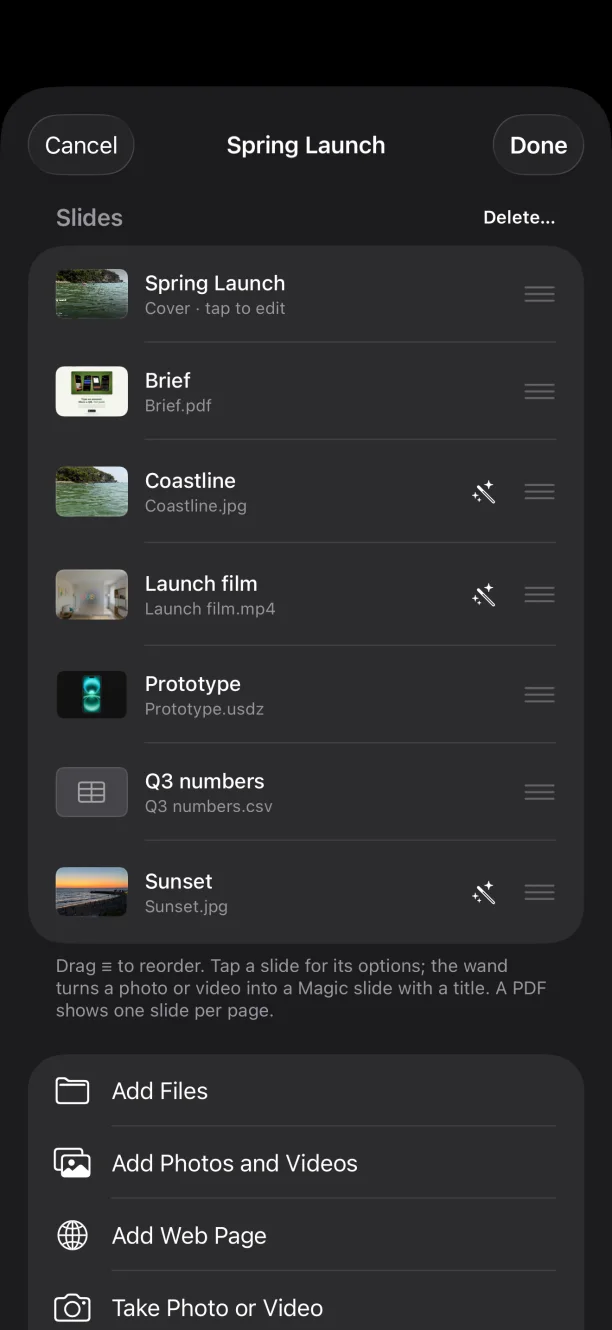
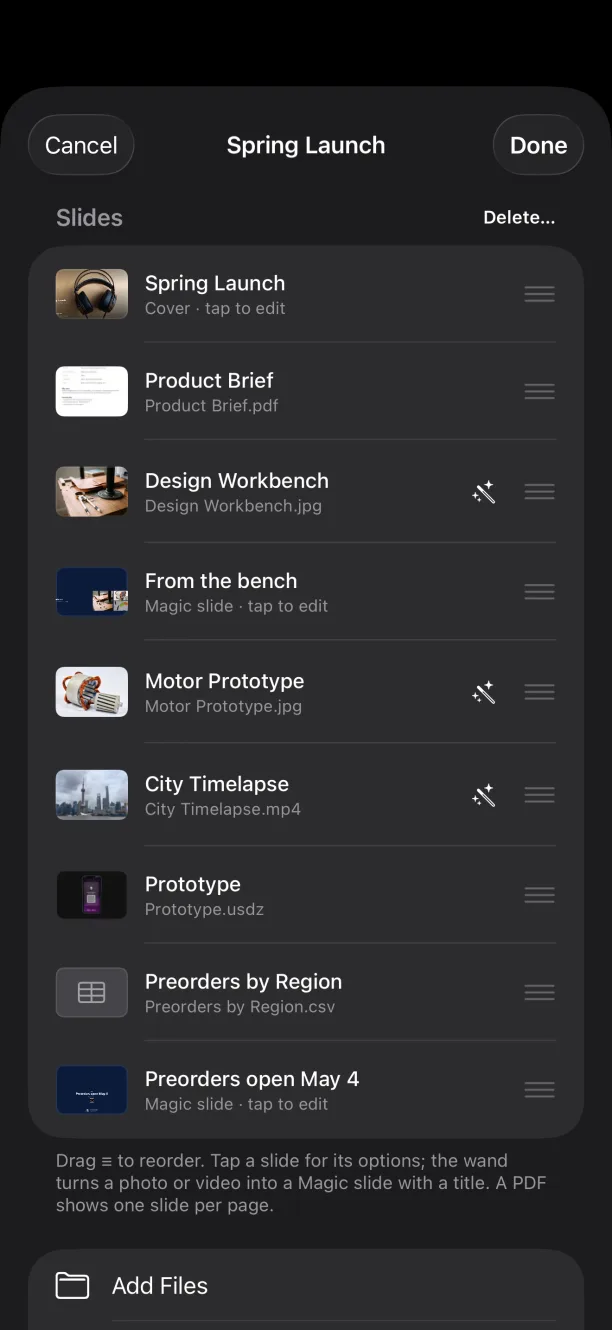
The deck shot is the Spring Launch editor from the demo library (the 3D prototype is the iPhone 17 Pro model, not the sphere); alt text follows

diff --git a/index.html b/index.html
@@ -243,7 +243,7 @@ footer a{color:var(--muted2);display:inline-block;padding:12px 10px}
 
 <script>if(matchMedia('(prefers-reduced-motion: reduce)').matches){var v=document.querySelector('.herovid');v.removeAttribute('autoplay');v.pause();}</script>
 <div id="tour"></div>
-<section class="feat"><div class="wrap"><div class="copy"><h2>Any mix of files, one presentation</h2><p>Pick a Keynote deck, a PDF, a film, photos, a 3D model, a voice note and a spreadsheet, and they become one presentation, a slide each, in the order you want. No converting, no copying and pasting, no slide software.</p><ul class="bul"><li><svg viewBox="0 0 24 24" fill="none" stroke="currentColor" stroke-width="1.7" aria-hidden="true"><use href="#i-stack"/></svg>Keynote, PowerPoint, Word, PDFs, videos, photos, audio</li><li><svg viewBox="0 0 24 24" fill="none" stroke="currentColor" stroke-width="1.7" aria-hidden="true"><use href="#i-check"/></svg>3D models, Lottie animations, Markdown, tables and live web pages</li><li><svg viewBox="0 0 24 24" fill="none" stroke="currentColor" stroke-width="1.7" aria-hidden="true"><use href="#i-folder"/></svg>From Files, Photos, AirDrop, Mail or the camera, even a scan</li></ul></div><div class="shotframe featshot"><img src="shot-deck.webp" width="612" height="1330" alt="Editing a presentation in FreeView: a cover, a brief, a photo, a film, a 3D prototype, a table of numbers and a sunset, in order" loading="lazy"></div></div></section>
+<section class="feat"><div class="wrap"><div class="copy"><h2>Any mix of files, one presentation</h2><p>Pick a Keynote deck, a PDF, a film, photos, a 3D model, a voice note and a spreadsheet, and they become one presentation, a slide each, in the order you want. No converting, no copying and pasting, no slide software.</p><ul class="bul"><li><svg viewBox="0 0 24 24" fill="none" stroke="currentColor" stroke-width="1.7" aria-hidden="true"><use href="#i-stack"/></svg>Keynote, PowerPoint, Word, PDFs, videos, photos, audio</li><li><svg viewBox="0 0 24 24" fill="none" stroke="currentColor" stroke-width="1.7" aria-hidden="true"><use href="#i-check"/></svg>3D models, Lottie animations, Markdown, tables and live web pages</li><li><svg viewBox="0 0 24 24" fill="none" stroke="currentColor" stroke-width="1.7" aria-hidden="true"><use href="#i-folder"/></svg>From Files, Photos, AirDrop, Mail or the camera, even a scan</li></ul></div><div class="shotframe featshot"><img src="shot-deck.webp" width="612" height="1330" alt="Editing a presentation in FreeView: a cover, a product brief, photos, a Magic slide, a film, a 3D prototype and a table of preorders, in order" loading="lazy"></div></div></section>
 <section class="feat flip"><div class="wrap"><div class="shotframe featshot"><img src="shot-cover.webp" width="612" height="1330" alt="A cover slide over a photo of the sea: title, logo, the presenter's photo, name and contacts" loading="lazy"></div><div class="copy"><h2>Make it yours in seconds</h2><p>Add a cover with your logo, name, photo and contacts, and text slides for the bits in between. Any web address on a slide becomes a QR code. Pick a style or make one from your logo's colours.</p><ul class="bul"><li><svg viewBox="0 0 24 24" fill="none" stroke="currentColor" stroke-width="1.7" aria-hidden="true"><use href="#i-photo"/></svg>Any picture from the presentation as the cover</li><li><svg viewBox="0 0 24 24" fill="none" stroke="currentColor" stroke-width="1.7" aria-hidden="true"><use href="#i-check"/></svg>Saved styles you can copy to other presentations</li><li><svg viewBox="0 0 24 24" fill="none" stroke="currentColor" stroke-width="1.7" aria-hidden="true"><use href="#i-code"/></svg>A QR code for every link, automatically</li></ul></div></div></section>
 <section class="feat"><div class="wrap"><div class="copy"><h2>Share one link, whatever the size</h2><p>Long films, big decks, dozens of photos: send a link, not attachments. Add a welcome message, choose how long it works, and update it after edits without changing the link.</p><ul class="bul"><li><svg viewBox="0 0 24 24" fill="none" stroke="currentColor" stroke-width="1.7" aria-hidden="true"><use href="#i-airplay"/></svg>One link instead of files people can't open</li><li><svg viewBox="0 0 24 24" fill="none" stroke="currentColor" stroke-width="1.7" aria-hidden="true"><use href="#i-lock"/></svg>A welcome screen, a password if you need one</li><li><svg viewBox="0 0 24 24" fill="none" stroke="currentColor" stroke-width="1.7" aria-hidden="true"><use href="#i-clock"/></svg>Ends when you choose; see how often it was opened</li></ul></div><div class="shotframe featshot"><img src="shot-share.webp" width="612" height="1330" alt="Sharing a presentation: its cover, what's in it, a title and message, and how long the link works" loading="lazy"></div></div></section>
 <section class="feat flip"><div class="wrap"><div class="shotframe featshot"><img src="shot-web-phone.webp" width="612" height="1330" alt="The shared presentation playing in a phone's browser" loading="lazy"></div><div class="copy"><h2>Opens on any screen</h2><p>Whoever gets the link watches it in their browser, on a laptop, tablet, phone or TV, ready to present. No app, no account, nothing to install, and Keynote, video and 3D all just play.</p><ul class="bul"><li><svg viewBox="0 0 24 24" fill="none" stroke="currentColor" stroke-width="1.7" aria-hidden="true"><use href="#i-globe"/></svg>Any modern browser</li><li><svg viewBox="0 0 24 24" fill="none" stroke="currentColor" stroke-width="1.7" aria-hidden="true"><use href="#i-keys"/></svg>Arrow keys, clickers, swipe or tap</li><li><svg viewBox="0 0 24 24" fill="none" stroke="currentColor" stroke-width="1.7" aria-hidden="true"><use href="#i-check"/></svg>Full screen, filled edge to edge</li></ul></div></div></section>

diff --git a/build.py b/build.py
@@ -340,7 +340,7 @@ FEATURES = "\n".join([
     feature("Any mix of files, one presentation", "Pick a Keynote deck, a PDF, a film, photos, a 3D model, a voice note and a spreadsheet, and they become one presentation, a slide each, in the order you want. No converting, no copying and pasting, no slide software.",
             [("stack", "Keynote, PowerPoint, Word, PDFs, videos, photos, audio"), ("check", "3D models, Lottie animations, Markdown, tables and live web pages"),
              ("folder", "From Files, Photos, AirDrop, Mail or the camera, even a scan")],
-            shot("shot-deck.webp", "Editing a presentation in FreeView: a cover, a brief, a photo, a film, a 3D prototype, a table of numbers and a sunset, in order")),
+            shot("shot-deck.webp", "Editing a presentation in FreeView: a cover, a product brief, photos, a Magic slide, a film, a 3D prototype and a table of preorders, in order")),
     feature("Make it yours in seconds", "Add a cover with your logo, name, photo and contacts, and text slides for the bits in between. Any web address on a slide becomes a QR code. Pick a style or make one from your logo's colours.",
             [("photo", "Any picture from the presentation as the cover"), ("check", "Saved styles you can copy to other presentations"),
              ("code", "A QR code for every link, automatically")],
